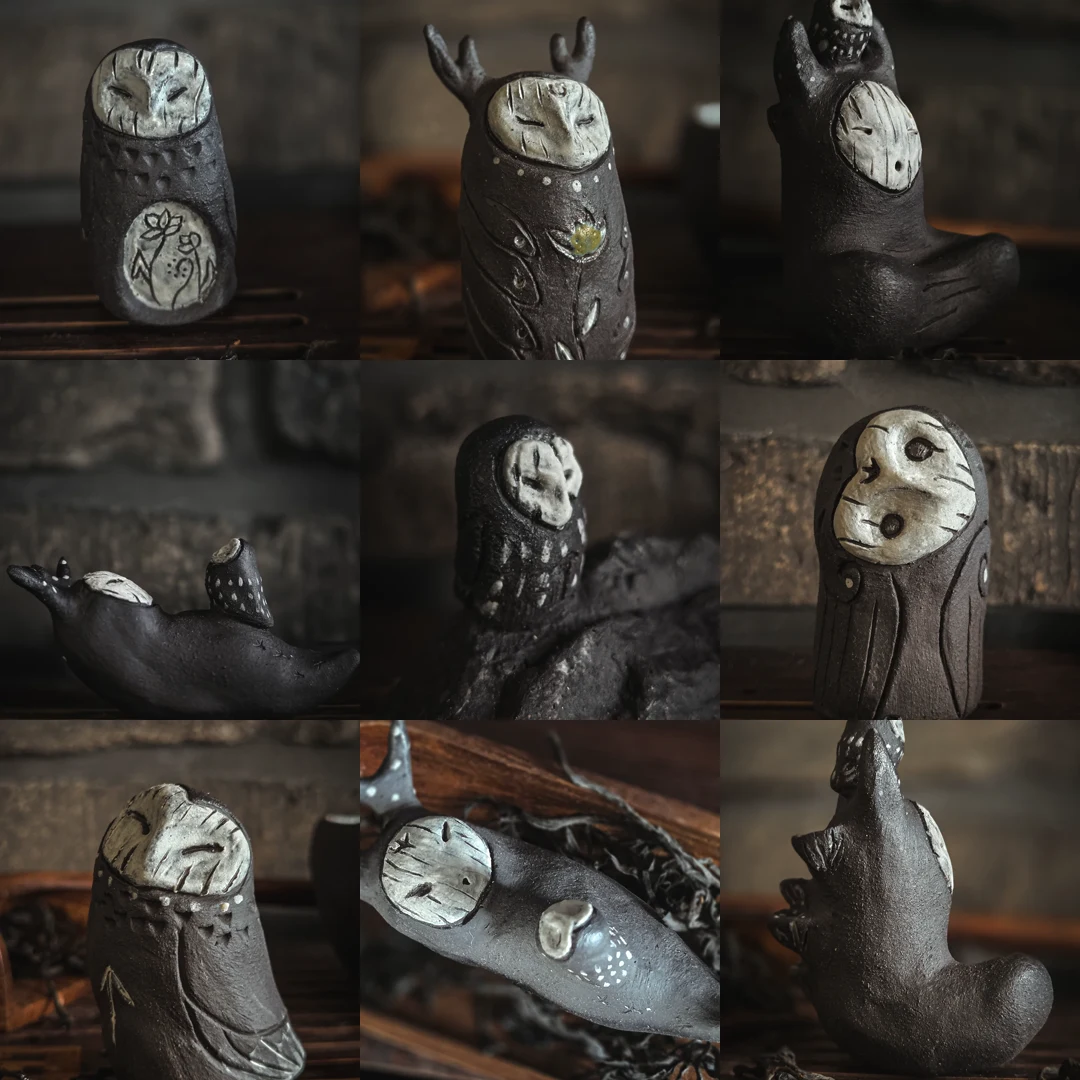
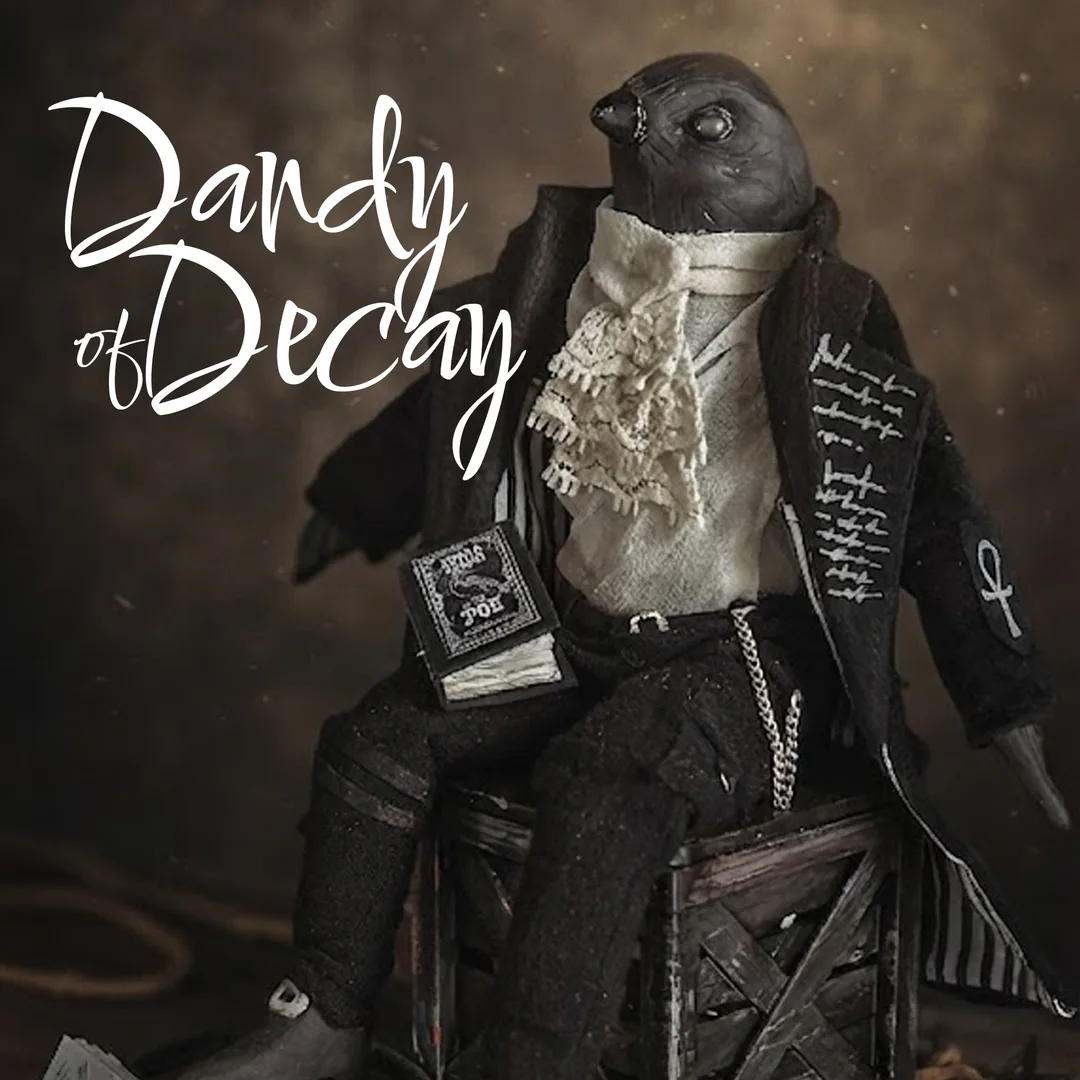
Дроп LIVE: Urban Misfits — Dandy of Decay (goth poet)
- Dandy of Decay добавлен в Urban Misfits: 9 фото 4:5 (webp), легенда, профиль, Etsy-ссылка
- DSA.drop ссылается на объект из DSA.urban (единый источник, без дублирования)
- DROP.status: soon → live
- обложка hero-карусели в live = фото куклы (featured.webp); soon-тизер отдельно (coming-poet.webp)
- лид /drop/ в live зависит от типа дропа (куклы поштучно / ти-петы партией)
- sitemap: lastmod + фото Dandy в image-sitemap под /art-dolls/
- исходники и материалы дропа в drops/upcoming/2026-07-05-urban-misfits/

diff --git a/assets/data.js b/assets/data.js
@@ -43,6 +43,7 @@ DSA.bastards =
 
 DSA.urban =
 [
+    {name:"Dandy of Decay",mood:"A melancholic poet of the night city.",avail:1,url:"https://darksagaart.etsy.com/listing/4532535636",img:"/assets/works/urban/dandy-of-decay/01.webp",photos:["/assets/works/urban/dandy-of-decay/01.webp","/assets/works/urban/dandy-of-decay/02.webp","/assets/works/urban/dandy-of-decay/03.webp","/assets/works/urban/dandy-of-decay/04.webp","/assets/works/urban/dandy-of-decay/05.webp","/assets/works/urban/dandy-of-decay/06.webp","/assets/works/urban/dandy-of-decay/07.webp","/assets/works/urban/dandy-of-decay/08.webp","/assets/works/urban/dandy-of-decay/09.webp"],story:"He moves through the city with the quiet demeanor of a ghost, preferring the secluded halls of old libraries or the occasional abandoned mansion where time is frozen in layers of dust over busy evening boulevards. For him, such places are the genuine bones of the city, stripped of the fake glare of storefronts. They are clusters of untold stories and pure sources of inspiration. In his pockets, there is always room for a notebook and a heavy fountain pen.\n\nHis poems read like the diary of a melancholic, where gothic longing intertwines with the silence of the night city. In Edgar Allan Poe's work he values more than dark plots. He respects the logic and the honest look at fear that help him stay true to himself against outside influence. He is introverted and a man of few words, yet he is always ready to bring a conversationalist back to reality with a sharp, cold quote the moment their pretense begins to weary him.",series:"Urban Misfits",vibe:"",atmosphere:"",personality:"",profile:[{"k": "Beliefs", "v": "Our world is an endless rough draft, where everyone has the right to make mistakes and change. Trying to appear perfect and flawless only kills the real life within people."}, {"k": "Fashion", "v": "A strict gothic aesthetic that does not follow modern trends, worn to emphasize his independence from other people's tastes."}, {"k": "Favorite Authors", "v": ["Edgar Allan Poe", "Charles Baudelaire", "Joris-Karl Huysmans"]}, {"k": "Likes", "v": ["Avant-garde theater", "Poetry readings", "Thunderstorms", "Walking at night in the rain", "The tactile feel of physical books"]}, {"k": "Dislikes", "v": ["Forced optimism", "Modern gadgets and their filters", "Tastelessness", "Vulgarity", "Kitsch"]}, {"k": "Writing Ritual", "v": "A meditative process of crafting lines with a fountain pen on paper."}, {"k": "Communication Style", "v": "Speaks little and cuts straight to the point with an ironic quote."}]},
     {name:"Master of the Forest",mood:"Old god of the city's edges.",avail:1,url:"https://darksagaart.etsy.com/listing/4493639842/",img:"/assets/works/urban/master-of-the-forest/01.webp",photos:["/assets/works/urban/master-of-the-forest/01.webp", "/assets/works/urban/master-of-the-forest/02.webp", "/assets/works/urban/master-of-the-forest/03.webp", "/assets/works/urban/master-of-the-forest/04.webp", "/assets/works/urban/master-of-the-forest/05.webp", "/assets/works/urban/master-of-the-forest/06.webp", "/assets/works/urban/master-of-the-forest/07.webp"],story:"He used to belong to the deep woods. These days his territory is broader and far less romantic: vacant lots behind supermarkets, overgrown railway embankments, courtyards between apartment blocks, abandoned construction sites, and cracks in the asphalt where green things still insist on coming back.\n\nHe watches the concrete jungle take more and more ground with a philosophical kind of amusement. The city may act like it has already won, but he is patient enough to know better. In the long run, he is certain, Nature will reclaim what is hers.\n\nHe has his own way of dealing with people, too. For the arrogant ones, the route home may suddenly become oddly unhelpful: a wrong turn here, a familiar yard that somehow feels unfamiliar there. But for someone truly looking for a way out, the right path has a habit of appearing sooner than expected.\n\nHe remembers the old world perfectly well, but he learned to live in the new one. He is curious about modern life, studies its strange inventions and habits, drinks herbal blends, appreciates a good espresso, and keeps a close eye on every small living creature that still survives among concrete and noise.\n\nIf people believe a species has disappeared, that does not necessarily mean it is gone. There is every chance the Master of the Forest has already hidden the last survivors somewhere safe, far from people and their endless plans.",series:"Urban Misfits",vibe:"",atmosphere:"",personality:"",profile:[{"k": "Who is he", "v": "An old keeper of wild places who adapted to the modern city without becoming part of it."}, {"k": "Usually found", "v": "Vacant lots, overgrown rail lines, courtyards, abandoned sites, and the edges of places people stopped noticing."}, {"k": "Temperament", "v": "Calm, stubborn, curious, and quietly amused."}, {"k": "Likes", "v": "Sunsets, herbal blends, good espresso, rare species, and all kinds of living creatures."}, {"k": "Dislikes", "v": "Waste, cruelty, pointless noise, and people who see life as disposable."}, {"k": "Belief", "v": "Nature always comes back."}, {"k": "Principles", "v": "Vegetarian. Eco-activist. On the side of the living."}, {"k": "Passion", "v": "Creating hidden sanctuaries for endangered species."}, {"k": "Quirks", "v": "He may interrupt any conversation to rescue a beetle, move a snail off the pavement, or inspect a strange seed."}]},
     {name:"The Dreamer",mood:"Lo-fi street artist.",avail:1,url:"https://darksagaart.etsy.com/listing/4344991958/",img:"/assets/works/urban/the-dreamer/01.webp",photos:["/assets/works/urban/the-dreamer/01.webp", "/assets/works/urban/the-dreamer/02.webp", "/assets/works/urban/the-dreamer/03.webp", "/assets/works/urban/the-dreamer/04.webp", "/assets/works/urban/the-dreamer/05.webp", "/assets/works/urban/the-dreamer/06.webp"],story:"He steps out when the city finally goes to sleep and the neon lights blur in the rain puddles. To the rest of the world he is just a silent shadow in a hoodie, headphones glued to his ears. But where others see only cold, blank concrete walls, he sees a canvas.\n\nHis art is a quiet conversation with the city. The hiss of his spray can is a secret language, telling stories on brick walls while lo-fi beats mix with water dripping from the roofs. By sunrise he is already high up on a rooftop, leaving his painted birds behind to remind the rushing morning crowds to stop and breathe.",series:"Urban Misfits",vibe:"",atmosphere:"",personality:"",profile:[{"k": "Likes", "v": ["Long, quiet walks through empty streets", "Painting graffiti when the city is asleep", "Lo-fi music mixed with the sound of rain", "Summer sunsets on rooftops"]}, {"k": "Dislikes", "v": ["Loud crowds and meaningless chatter", "Flashy luxury aesthetics", "Cheap bread (don't ask)"]}, {"k": "Unique traits", "v": ["Always carries his spray cans", "Often draws birds, says they reflect him best", "Feels most alive in the moments most people miss"]}]},
     {name:"The Observer",mood:"The quiet elf.",avail:0,url:"https://darksagaart.etsy.com/listing/4419480534/",img:"/assets/works/urban/the-observer/01.webp",photos:["/assets/works/urban/the-observer/01.webp", "/assets/works/urban/the-observer/02.webp", "/assets/works/urban/the-observer/03.webp", "/assets/works/urban/the-observer/04.webp", "/assets/works/urban/the-observer/05.webp", "/assets/works/urban/the-observer/06.webp"],story:"While the modern city screams in a blur of neon and traffic, he sits right in the middle of it, completely untouched by the noise. With his favorite plant pot safely by his side and a cup of steaming tea in his hands, this modern elf tunes into a different frequency.\n\nBehind his calm, thoughtful eyes is a mind that reads the city's hidden rhythms. To him, the steady, hypnotic beats of psy-trance are the perfect background music for watching the clouds shift and the daylight change. He communicates through the precise, elegant strokes of his calligraphy brushes and the little conversations he shares with his plants.",series:"Urban Misfits",vibe:"",atmosphere:"",personality:"",profile:[{"k": "Personality", "v": ["Calm and thoughtful", "Quiet, likes to observe", "Very neat and careful"]}, {"k": "Likes", "v": ["Drinking tea", "Calligraphy and sumi-e", "Psy trance and deep, steady beats", "Plants and green corners at home", "Watching the sky, trees and changing light"]}, {"k": "Little quirk", "v": ["Talks to his plants", "Feels safe when his favorite plant pot is close"]}]},
@@ -56,13 +57,15 @@ DSA.spores =
   ];
 
 /* DROP — работы текущего дропа (единый источник для превью на главной и страницы /drop/).
-   Дроп от 2026-07-05: Urban Misfits (goth poet). Работы наполним при переходе в 'live'. */
-DSA.drop = [];   // TODO: наполнить объектами Urban-куклы(-ол) перед 'live' (вс 05.07.2026)
+   Дроп от 2026-07-05: Urban Misfits (goth poet) — Dandy of Decay.
+   НЕ дублируем объект: берём его же из DSA.urban по имени (одна правка — везде синхронно).
+   После дропа сбросить обратно к `DSA.drop = [];` (см. правило сброса). */
+DSA.drop = DSA.urban.filter(function(o){ return o.name === "Dandy of Decay"; });
 
 /* DROP / NEWS — конфиг анонса дропа (status:off по умолчанию) */
 DSA.DROP =
 {
-    status:'soon',                                  // 'off' | 'soon' | 'live' — переключаешь руками
+    status:'live',                                  // 'off' | 'soon' | 'live' — переключаешь руками
     date:'2026-07-05',                              // день дропа (для отсчёта в 'soon') — воскресенье
     liveSince:'2026-07-05',                         // дата запуска 'live'; через liveDays сайт сам уходит в 'off'
     liveDays:14,                                    // сколько дней висит дроп, потом авто-возврат
@@ -70,7 +73,7 @@ DSA.DROP =
     comingImg:'/assets/drop/coming-poet.webp',       // фон-тизер в «скоро» (под вуалью, в hero-карусели главной) — goth-poet тизер
     cover:'/assets/drop/coming-poet.webp',           // фон страницы /drop/ в 'soon'; общий дефолт — assets/drop/cover.webp
     accent:'calm',                                  // акцент карусели в live: 'calm'|'shimmer'|'sparkle'|'glow'
-    featured:{img:'/assets/drop/coming-poet.webp', name:'New Drop'}, // фото дропа в hero-карусели во время live
+    featured:{img:'/assets/drop/featured.webp', name:'New Drop'}, // фото дропа (Dandy) в hero-карусели во время live; soon-тизер = comingImg (coming-poet.webp)
     etsy:'https://darksagaart.etsy.com',
     // Кастомные атмосферные строки бегущей ленты ТОЛЬКО для этого дропа (soon).
     // Заменяют дефолтную «New creatures are packing their bags»; отсчёт и CTA остаются.

diff --git a/drop/index.html b/drop/index.html
@@ -158,7 +158,10 @@ document.addEventListener('DOMContentLoaded',function(){
   } else if(status==='live'){
     if(k)k.textContent='Just dropped';
     if(t)t.textContent='The new batch is live';
-    if(l)l.textContent='A fresh set of strange soulmates just landed in the shop. Adopt one before it chooses someone else.';
+    // лид зависит от типа дропа: ти-петы приходят «партией», куклы — поштучно (по умолчанию)
+    if(l)l.textContent=(D.type==='dolls')
+      ? 'A new stranger has wandered into the city, looking for a home. Adopt before someone else does.'
+      : 'A fresh set of strange soulmates just landed in the shop. Adopt one before it chooses someone else.';
     if(cta)cta.innerHTML='';   // в live кнопки не нужны — сразу под лидом идёт галерея персонажей дропа
   }
 });
